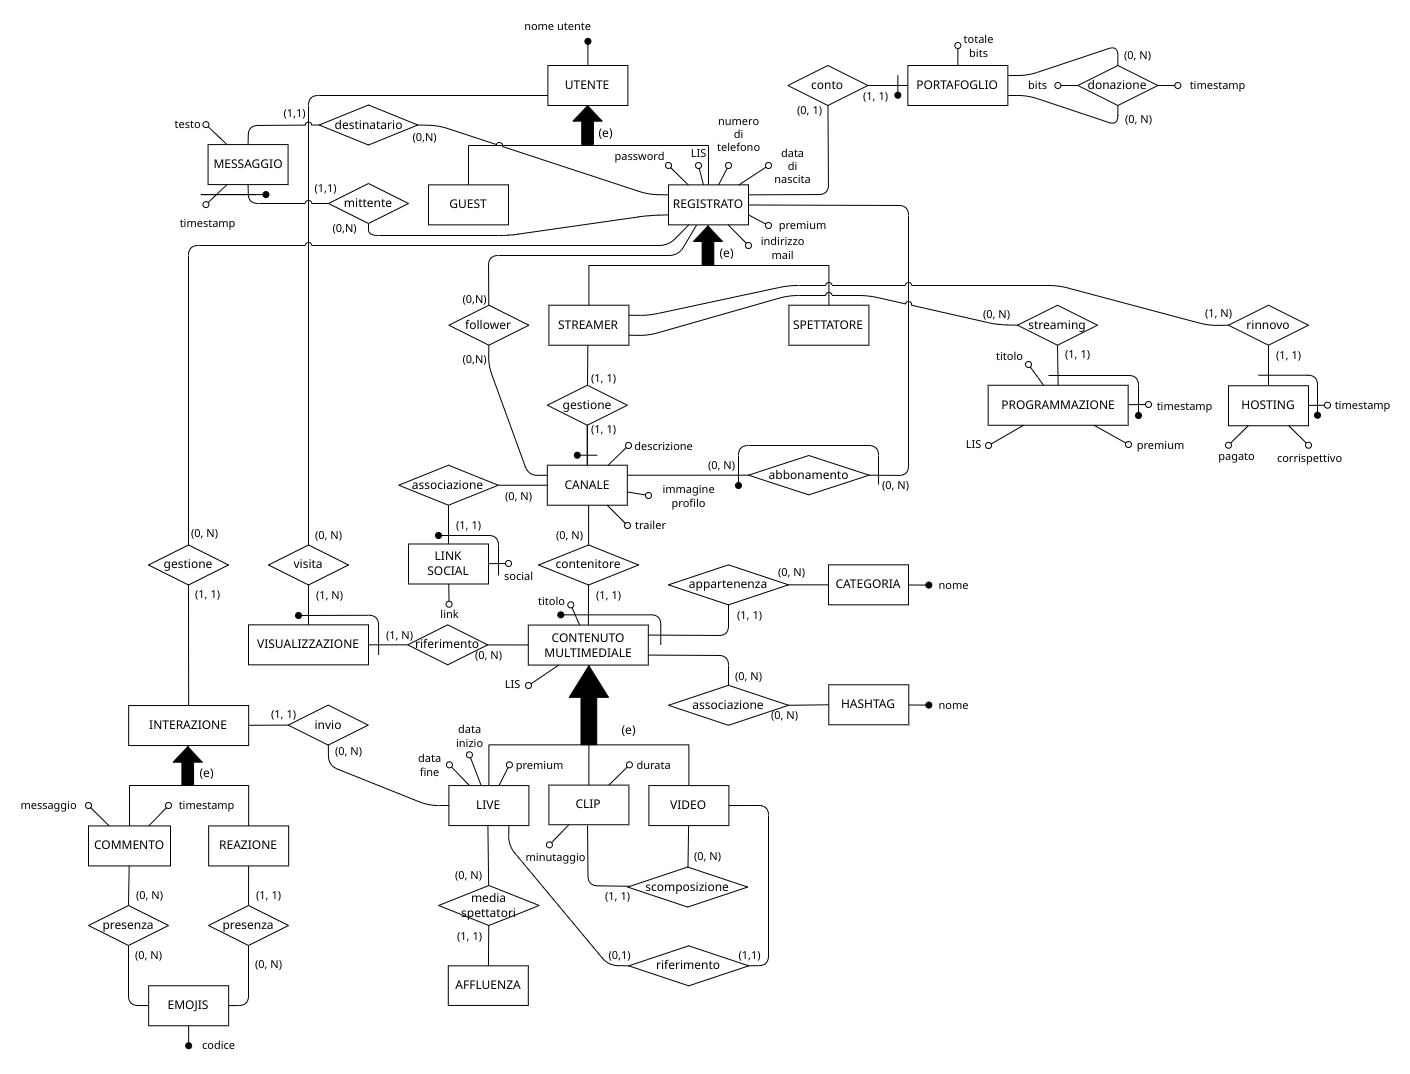
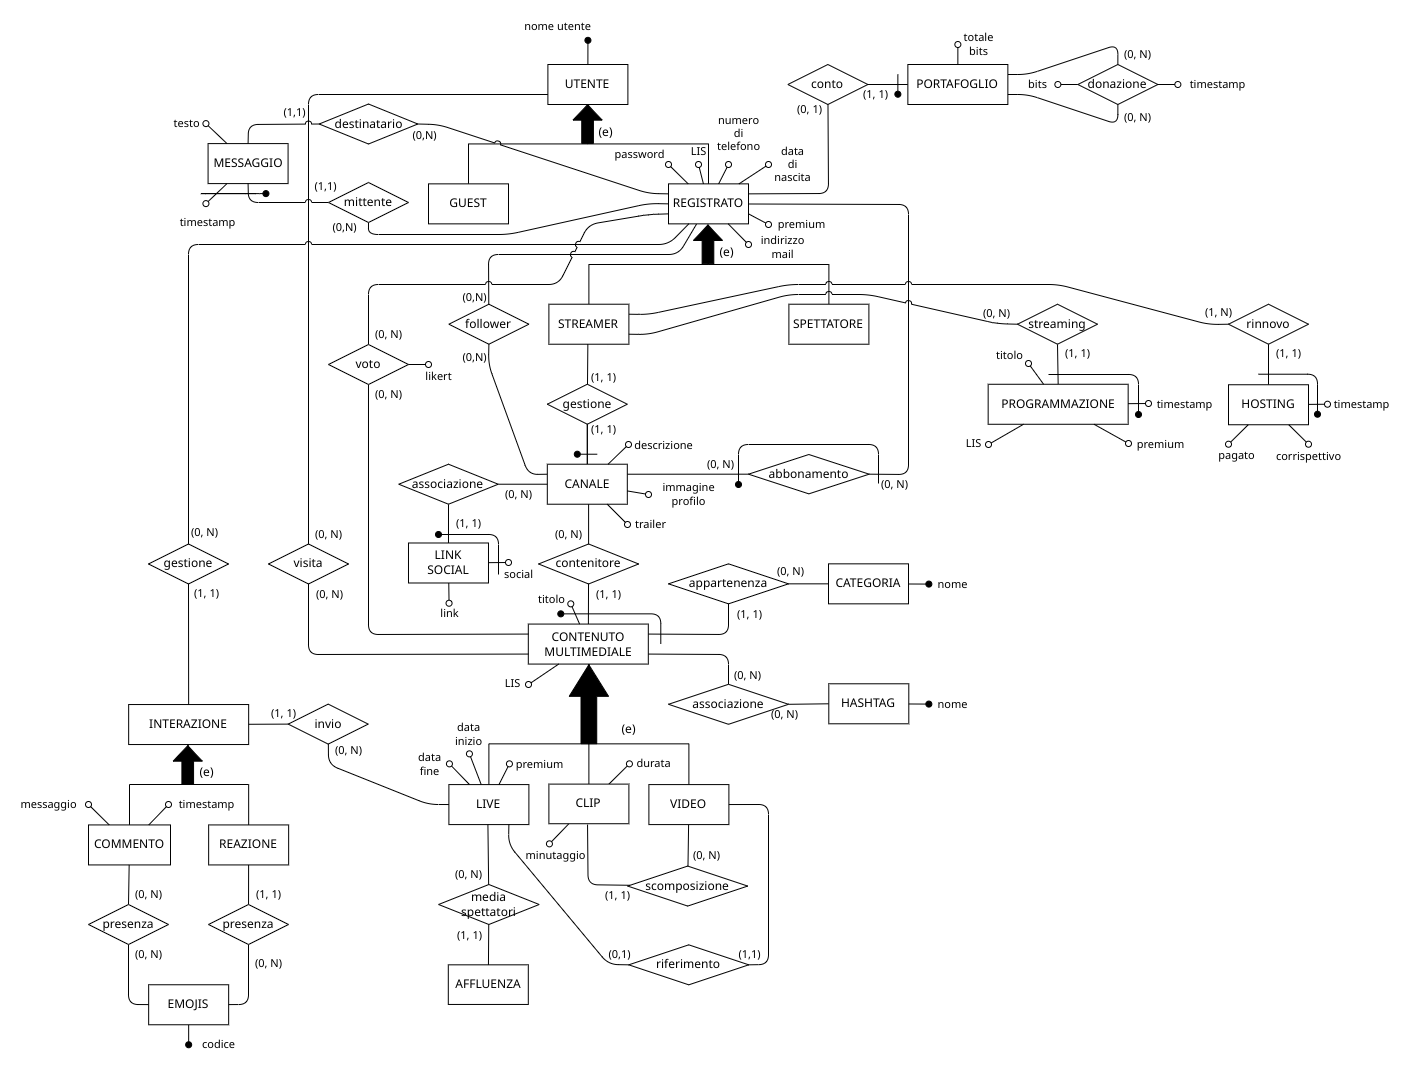
Aggiornato la 1.5 e 2.1

diff --git a/Progetto Esame - DBSperimentazioni A.A. 2023-2024/Markdown/3 Schema progettazione logica.md b/Progetto Esame - DBSperimentazioni A.A. 2023-2024/Markdown/3 Schema progettazione logica.md
@@ -29,65 +29,62 @@
 
 > < eventuali osservazioni. In particolare descrivere il ragionamento che ha portato a certi valori non espliciti nei requisiti.>
 >
+
 | Concetto               | Tipo | Volume     |
 | ---------------------- | ---- | ---------- |
-| UTENTI                 | E    | 100,000    |
-| PORTAFOGLIO            | E    | 100,000    |
-| DONAZIONI              | A    | 500,000    |
-| REGISTRATI             | E    | 80,000     |
-| PREMIUM                | A    | 20,000     |
+| UTENTE                 | E    | 100,000    |
+| PORTAFOGLIO            | E    | 70,000     |
+| donazione              | A    | 500,000    |
+| REGISTRATO             | E    | 80,000     |
+| PREMIUM                | E    | 20,000     |
 | STREAMER               | E    | 10,000     |
-| SPETTATORI             | E    | 70,000     |
-| PROGRAMMAZIONE         | A    | 200,000    |
+| SPETTATORE             | E    | 70,000     |
+| PROGRAMMAZIONE         | E    | 200,000    |
 | CANALE                 | E    | 10,000     |
 | CATEGORIA              | E    | 100        |
-| CONTENUTI_MULTIMEDIALI | E    | 1,000,000  |
-| LIVE                   | A    | 100,000    |
-| VIDEO                  | A    | 500,000    |
-| CLIP                   | A    | 200,000    |
-| VISUALIZZAZIONI_VIDEO  | A    | 10,000,000 |
-| VISUALIZZAZIONI_CLIP   | A    | 5,000,000  |
-| SOCIAL                 | E    | 1,000      |
-| LINK                   | E    | 100,000    |
-| VISITE                 | A    | 20,000,000 |
-| COMMENTI               | A    | 5,000,000  |
-| REAZIONI               | A    | 15,000,000 |
-| EMOJIS                 | E    | 5,000,000  |
-| HASHTAG                | E    | 10,000     |
-| CONTENUTI_HASHTAG      | A    | 1,000,000  |
-| FOLLOW                 | A    | 500,000    |
-| MESSAGGI               | A    | 2,000,000  |
-| VOTI                   | A    | 8,000,000  |
-| HOSTING                | A    | 50,000     |
+| CONTENUTO MULTIMEDIALE | E    | 1,000,000  |
+| LIVE                   | E    | 100,000    |
+| VIDEO                  | E    | 500,000    |
+| CLIP                   | E    | 900,000    |
+| VISUALIZZAZIONE        | E    | 10,000,000 |
+| LINK SOCIAL            | E    | 1,000      |
+| visita                 | A    | 20,000,000 |
+| COMMENTO               | E    | 5,000,000  |
+| REAZIONE               | E    | 15,000,000 |
+| EMOJI                  | E    | 3,800      |
+| HASHTAG                | E    | 5,000      |
+| follower               | A    | 500,000    |
+| MESSAGGIO              | E    | 2,000,000  |
+| voto                   | A    | 700,000    |
+| abbonamento            | A    | 20,000     |
+| HOSTING                | E    | 50,000     |
 
-1. **UTENTI**: Entità che rappresenta gli utenti della piattaforma.
+1. **UTENTE**: Entità che rappresenta gli utenti della piattaforma.
 2. **PORTAFOGLIO**: Entità che rappresenta il portafoglio di ciascun utente.
-3. **DONAZIONI**: Associazione che rappresenta le donazioni effettuate tra utenti.
-4. **REGISTRATI**: Entità che rappresenta gli utenti registrati con informazioni aggiuntive.
-5. **PREMIUM**: Associazione che rappresenta gli abbonamenti premium degli utenti.
+3. **donazione**: Associazione che rappresenta le donazioni effettuate da utenti a streamer.
+4. **REGISTRATO**: Entità che rappresenta gli utenti registrati con informazioni aggiuntive.
+5. **PREMIUM**: Entità che rappresenta gli utenti registrati con abbonamento premium attivo.
 6. **STREAMER**: Entità che rappresenta gli utenti che sono streamer.
-7. **SPETTATORI**: Entità che rappresenta gli utenti che sono spettatori.
-8. **PROGRAMMAZIONE**: Associazione che rappresenta gli eventi di programmazione.
+7. **SPETTATORE**: Entità che rappresenta gli utenti che sono spettatori.
+8. **PROGRAMMAZIONE**: Entità che rappresenta gli eventi programmati di live streaming.
 9. **CANALE**: Entità che rappresenta il canale gestito dallo streamer.
 10. **CATEGORIA**: Entità che rappresenta le categorie dei contenuti.
-11. **CONTENUTI_MULTIMEDIALI**: Entità che rappresenta i contenuti multimediali.
-12. **LIVE**: Associazione che rappresenta i contenuti live.
+11. **CONTENUTO MULTIMEDIALE**: Entità generale che rappresenta i contenuti multimediali.
+12. **LIVE**: Associazione che rappresenta le live.
 13. **VIDEO**: Associazione che rappresenta i video.
 14. **CLIP**: Associazione che rappresenta le clip.
-15. **VISUALIZZAZIONI_VIDEO**: Associazione che rappresenta le visualizzazioni dei video.
-16. **VISUALIZZAZIONI_CLIP**: Associazione che rappresenta le visualizzazioni delle clip.
-17. **SOCIAL**: Entità che rappresenta i social media collegati.
-18. **LINK**: Entità che rappresenta i link associati ai social media.
-19. **VISITE**: Associazione che rappresenta le visite ai contenuti multimediali.
-20. **COMMENTI**: Associazione che rappresenta i commenti sui contenuti multimediali.
-21. **REAZIONI**: Associazione che rappresenta le reazioni ai commenti.
-22. **EMOJIS**: Entità che rappresenta gli emoji usati nelle reazioni.
-23. **HASHTAG**: Entità che rappresenta gli hashtag utilizzati.
-24. **CONTENUTI_HASHTAG**: Associazione che rappresenta la relazione tra contenuti multimediali e hashtag.
-25. **FOLLOW**: Associazione che rappresenta i follow tra utenti.
-26. **MESSAGGI**: Associazione che rappresenta i messaggi inviati tra utenti.
-27. **VOTI**: Associazione che rappresenta i voti sui contenuti multimediali.
-28. **HOSTING**: Associazione che rappresenta i servizi di hosting utilizzati dagli utenti.
+15. **VISUALIZZAZIONE**: Associazione che rappresenta le visualizzazioni dei contenuti multimediale da parte degli utenti.
+16. **LINK SOCIAL**: Entità che rappresenta i link  dei social media scritti dal gestore del canale (streamer).
+17. **visita**: Associazione che rappresenta le visite ai contenuti multimediali.
+18. **COMMENTO**: Entità che rappresenta i commenti sulle live.
+19. **REAZIONE**: Associazione che rappresenta le reazioni alle live.
+20. **EMOJI**: Entità che rappresenta gli emoji usati nei commenti e reazioni.
+21. **HASHTAG**: Entità che rappresenta gli hashtag utilizzati.
+22. **follower**: Associazione che rappresenta i follow tra utenti registrati.
+23. **MESSAGGIO**: Entità che rappresenta i messaggi inviati tra utenti.
+24. **voto**: Associazione che rappresenta i voti sui contenuti multimediali.
+25. **abbonamento**: Associazione che rappresenta l'abbonamento degli utenti registrati a uno specifico utente streamer.
+26. **HOSTING**: Entità che rappresenta i servizi di hosting utilizzati dagli utenti.
 
 ## 2.2 Tavola delle operazioni
 
